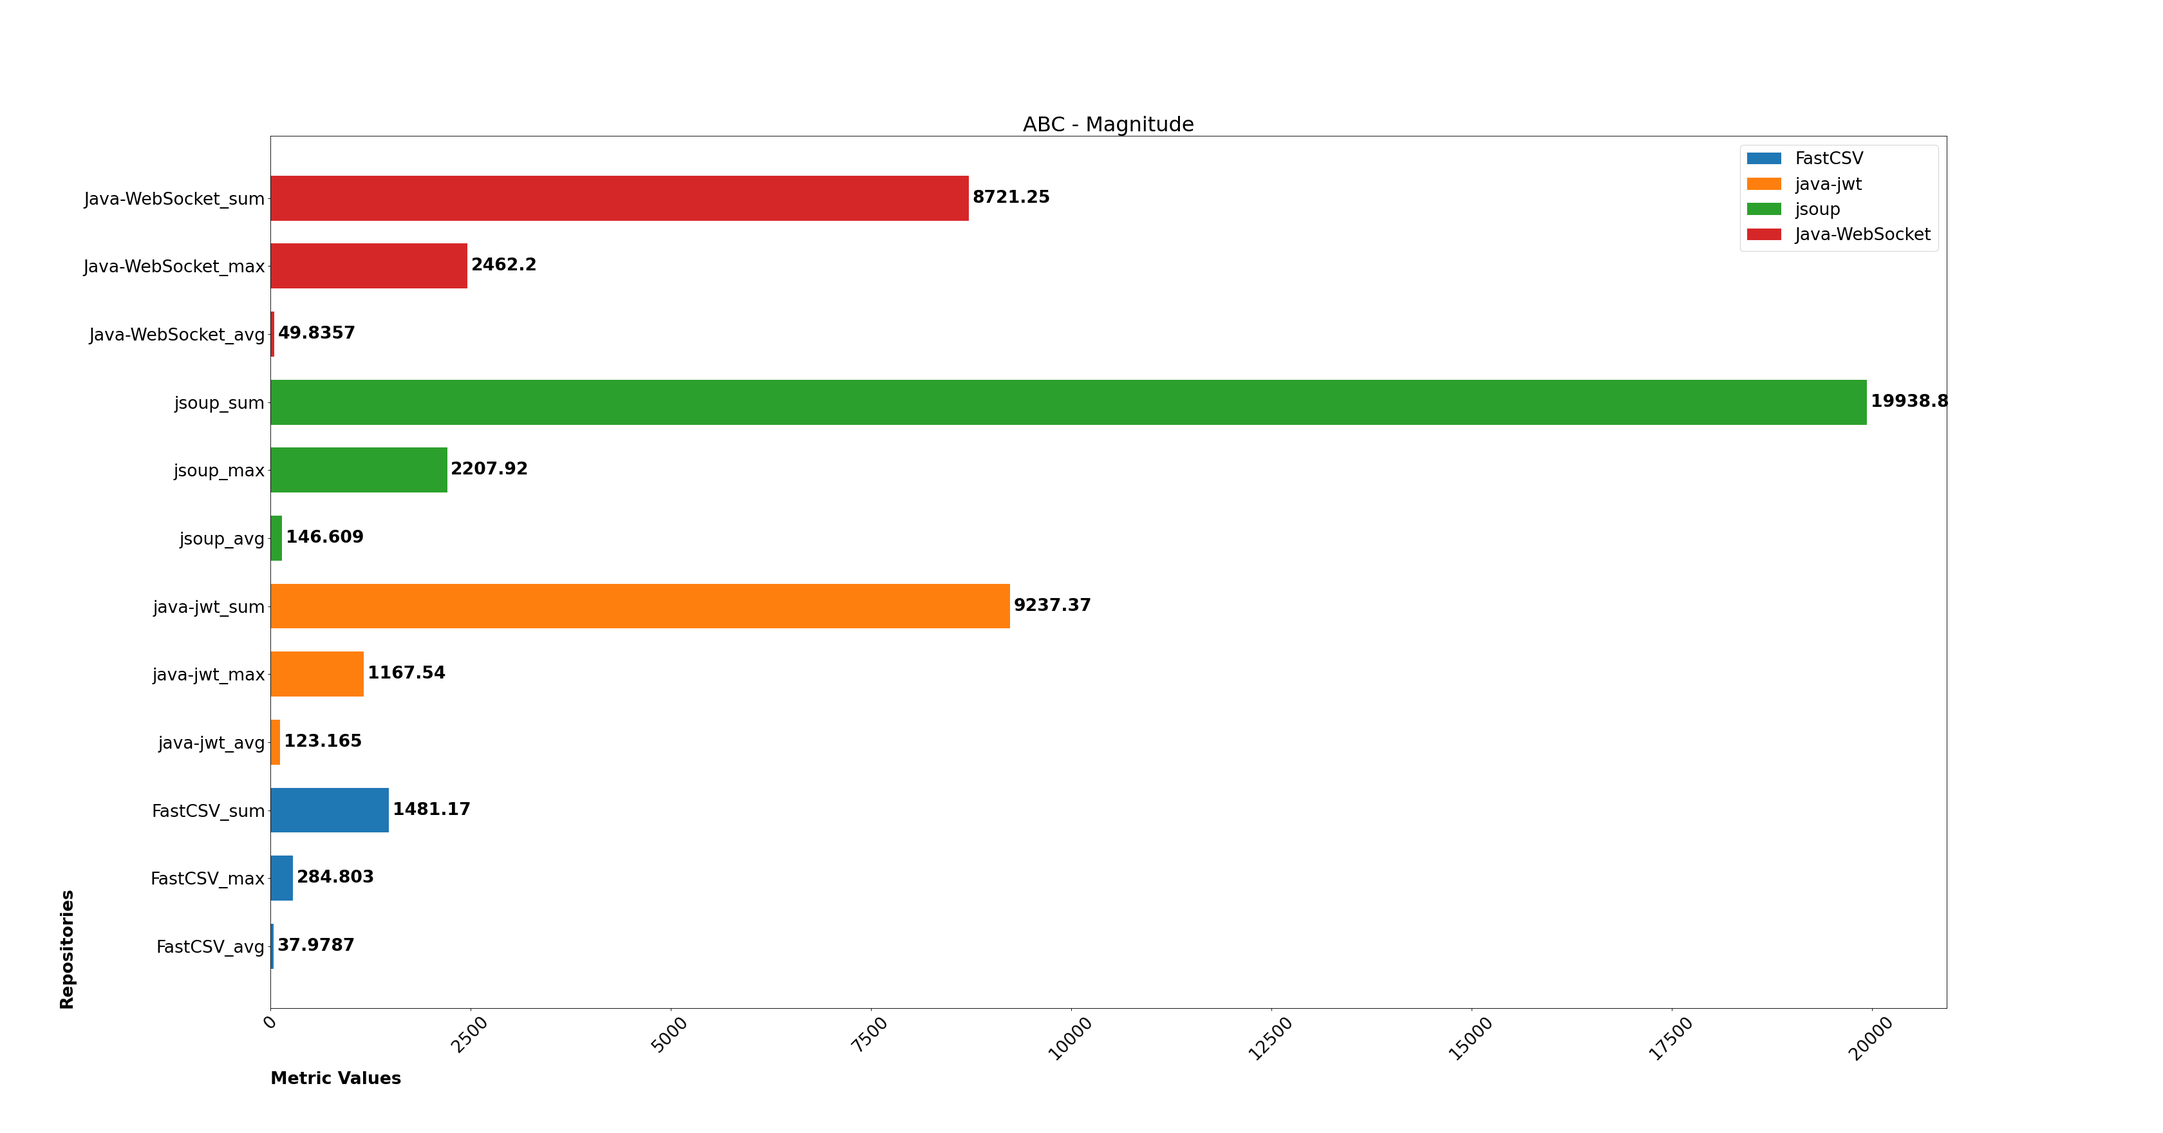
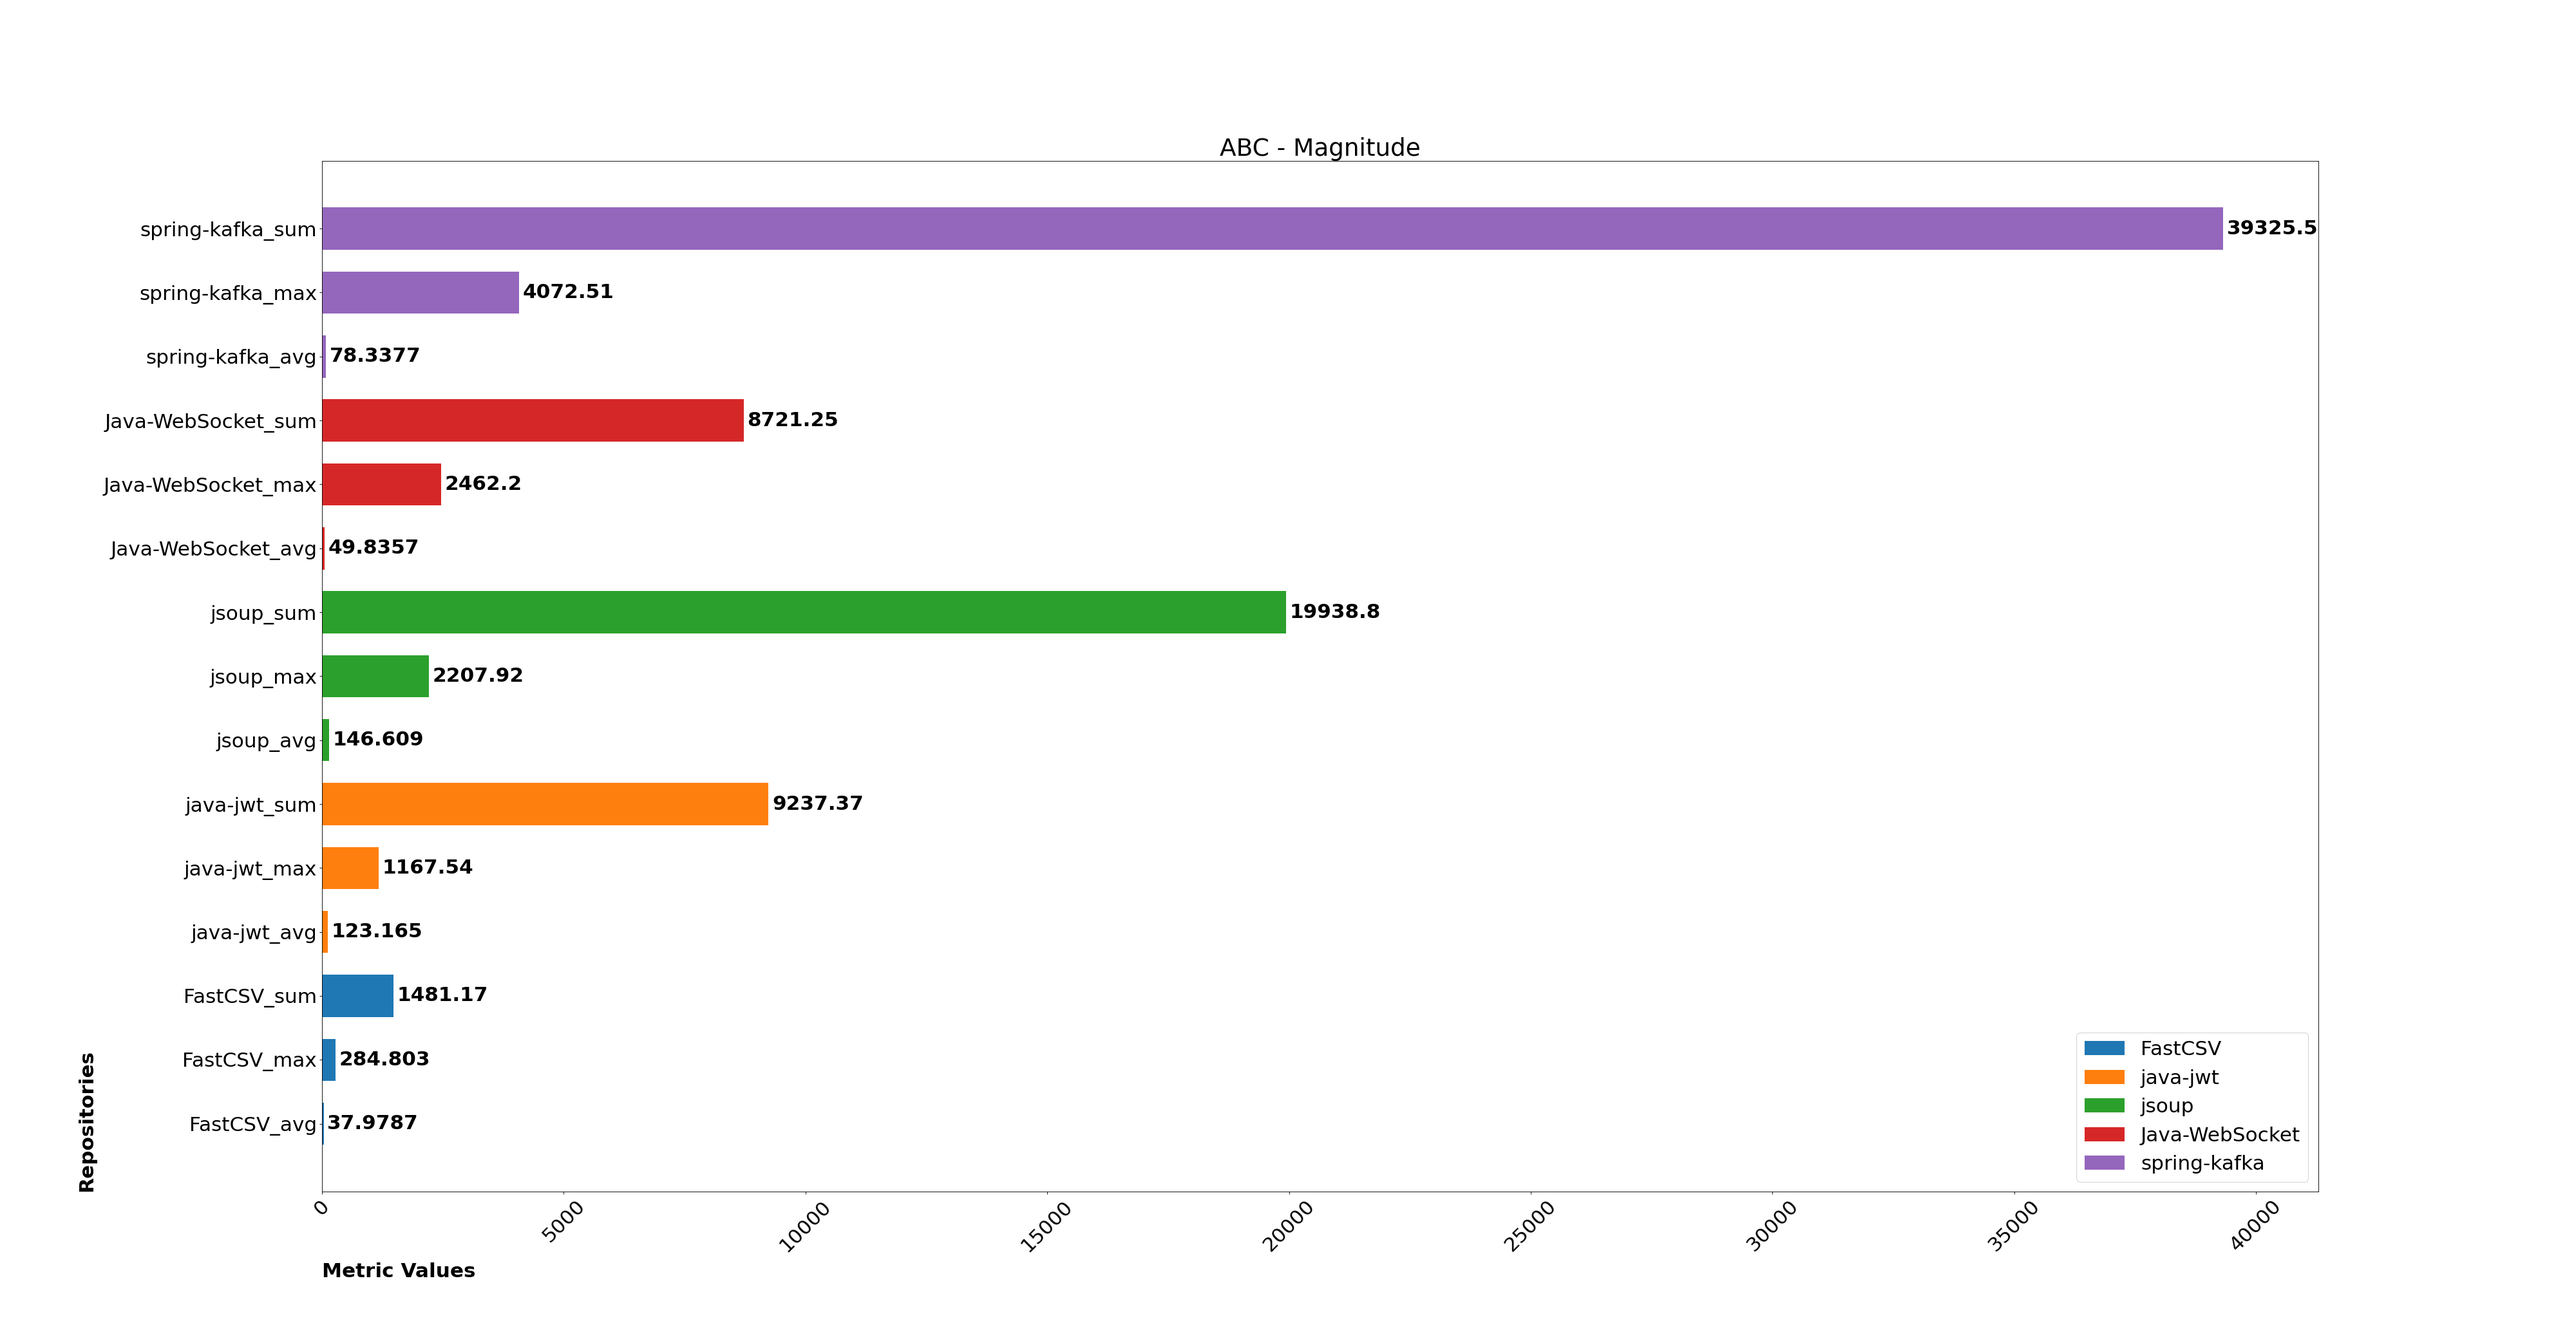
Add spring-kafka to static analysis graphs

diff --git a/static-analysis.py b/static-analysis.py
@@ -48,8 +48,8 @@ def plot_cumulative_measures(repositories, values, legend_loc, title, file):
         x.append([values[i][2], values[i][1], values[i][0]])
         y.append([repositories[i] + "_avg", repositories[i] + "_max", repositories[i] + "_sum"])
 
-    font_size = 24
-    figure(figsize=(42, 22), dpi=80)
+    font_size = 28
+    figure(figsize=(50, 26), dpi=80)
     plt.rcParams.update({"font.size": font_size})
 
     for i in range(0,len(repositories)):
@@ -72,9 +72,9 @@ def plot_size_measures(repositories, val, title, file):
         x.append([val[i][3], val[i][2], val[i][1], val[i][0]])
         y.append([repositories[i] + "_cyc", repositories[i] + "_ploc", repositories[i] + "_hal", repositories[i] + "_abc"])
 
-    font_size = 24
+    font_size = 28
     plt.rcParams.update({"font.size": font_size})
-    figure(figsize=(42, 22), dpi=80)
+    figure(figsize=(50, 26), dpi=80)
 
     for i in range(0,len(repositories)):
         bar = plt.barh(y[i], x[i], 0.66, label=repositories[i])
@@ -96,9 +96,9 @@ def plot_complexity_measures(repositories, val, title, file):
         y.append([repositories[i] + "_cyc", repositories[i] + "_wmc"])
         x.append([val[i][1], val[i][0]])
 
-    font_size = 24
+    font_size = 28
     plt.rcParams.update({"font.size": font_size})
-    figure(figsize=(42, 22), dpi=80)
+    figure(figsize=(50, 26), dpi=80)
 
     for i in range(0,len(repositories)):
         bar = plt.barh(y[i], x[i], 0.66, label=repositories[i])
@@ -123,10 +123,10 @@ def plot_visibility_measures(repositories, values, title, file):
         x2.append([values[i][0]])
         y.append([repositories[i]])
 
-    font_size = 24
+    font_size = 28
     name = title.split()[-1]
     plt.rcParams.update({"font.size": font_size})
-    figure(figsize=(42, 22), dpi=80)
+    figure(figsize=(50, 26), dpi=80)
 
     for i in range(0, len(repositories)):
         bar1 = plt.barh(y[i], x1[i], 0.4, color="#1f77b4", label = "Non-Public " + name)
@@ -157,10 +157,10 @@ def plot_visibility_percentages(repositories, values, title, file):
         x2.append([values[i][0] / values[i][1] * 100])
         y.append([repositories[i]])
 
-    font_size = 24
+    font_size = 28
     name = title.split()[-1]
     plt.rcParams.update({"font.size": font_size})
-    figure(figsize=(42, 22), dpi=80)
+    figure(figsize=(50, 26), dpi=80)
 
     for i in range(0, len(repositories)):
         bar1 = plt.barh(y[i], x1[i], 0.4, color="#1f77b4", label = "Non-Public " + name)
@@ -183,8 +183,8 @@ def plot_visibility_percentages(repositories, values, title, file):
     return
 
 def static_analysis():
-    repos = ["FastCSV", "java-jwt", "jsoup", "Java-WebSocket"]
-    versions = ["v2.2.0", "4.0.0", "jsoup-1.15.2", "v1.5.3"]
+    repos = ["FastCSV", "java-jwt", "jsoup", "Java-WebSocket", "spring-kafka"]
+    versions = ["v2.2.0", "4.0.0", "jsoup-1.15.2", "v1.5.3", "v2.9.0"]
 
     abc = []
     npm = []

diff --git a/graphs/static-analysis/README.md b/graphs/static-analysis/README.md
@@ -3,6 +3,7 @@
 ## Repositories
 | Name | Version | Files | Source |
 | --- | --- | --- | --- |
+| [spring-kafka](https://github.com/spring-projects/spring-kafka) | v2.9.0 | 502 | [Maven Central](https://mvnrepository.com/artifact/org.springframework.kafka/spring-kafka) |
 | [Java-WebSocket](https://github.com/TooTallNate/Java-WebSocket) | v1.5.3 | 175 | [Maven Central](https://mvnrepository.com/artifact/org.java-websocket/Java-WebSocket) |
 | [jsoup](https://github.com/jhy/jsoup) | jsoup-1.15.2 | 136 | [Maven Central](https://mvnrepository.com/artifact/org.jsoup/jsoup) |
 | [java-jwt](https://github.com/auth0/java-jwt) | 4.0.0 | 75 | [Maven Central](https://mvnrepository.com/artifact/com.auth0/java-jwt) |
